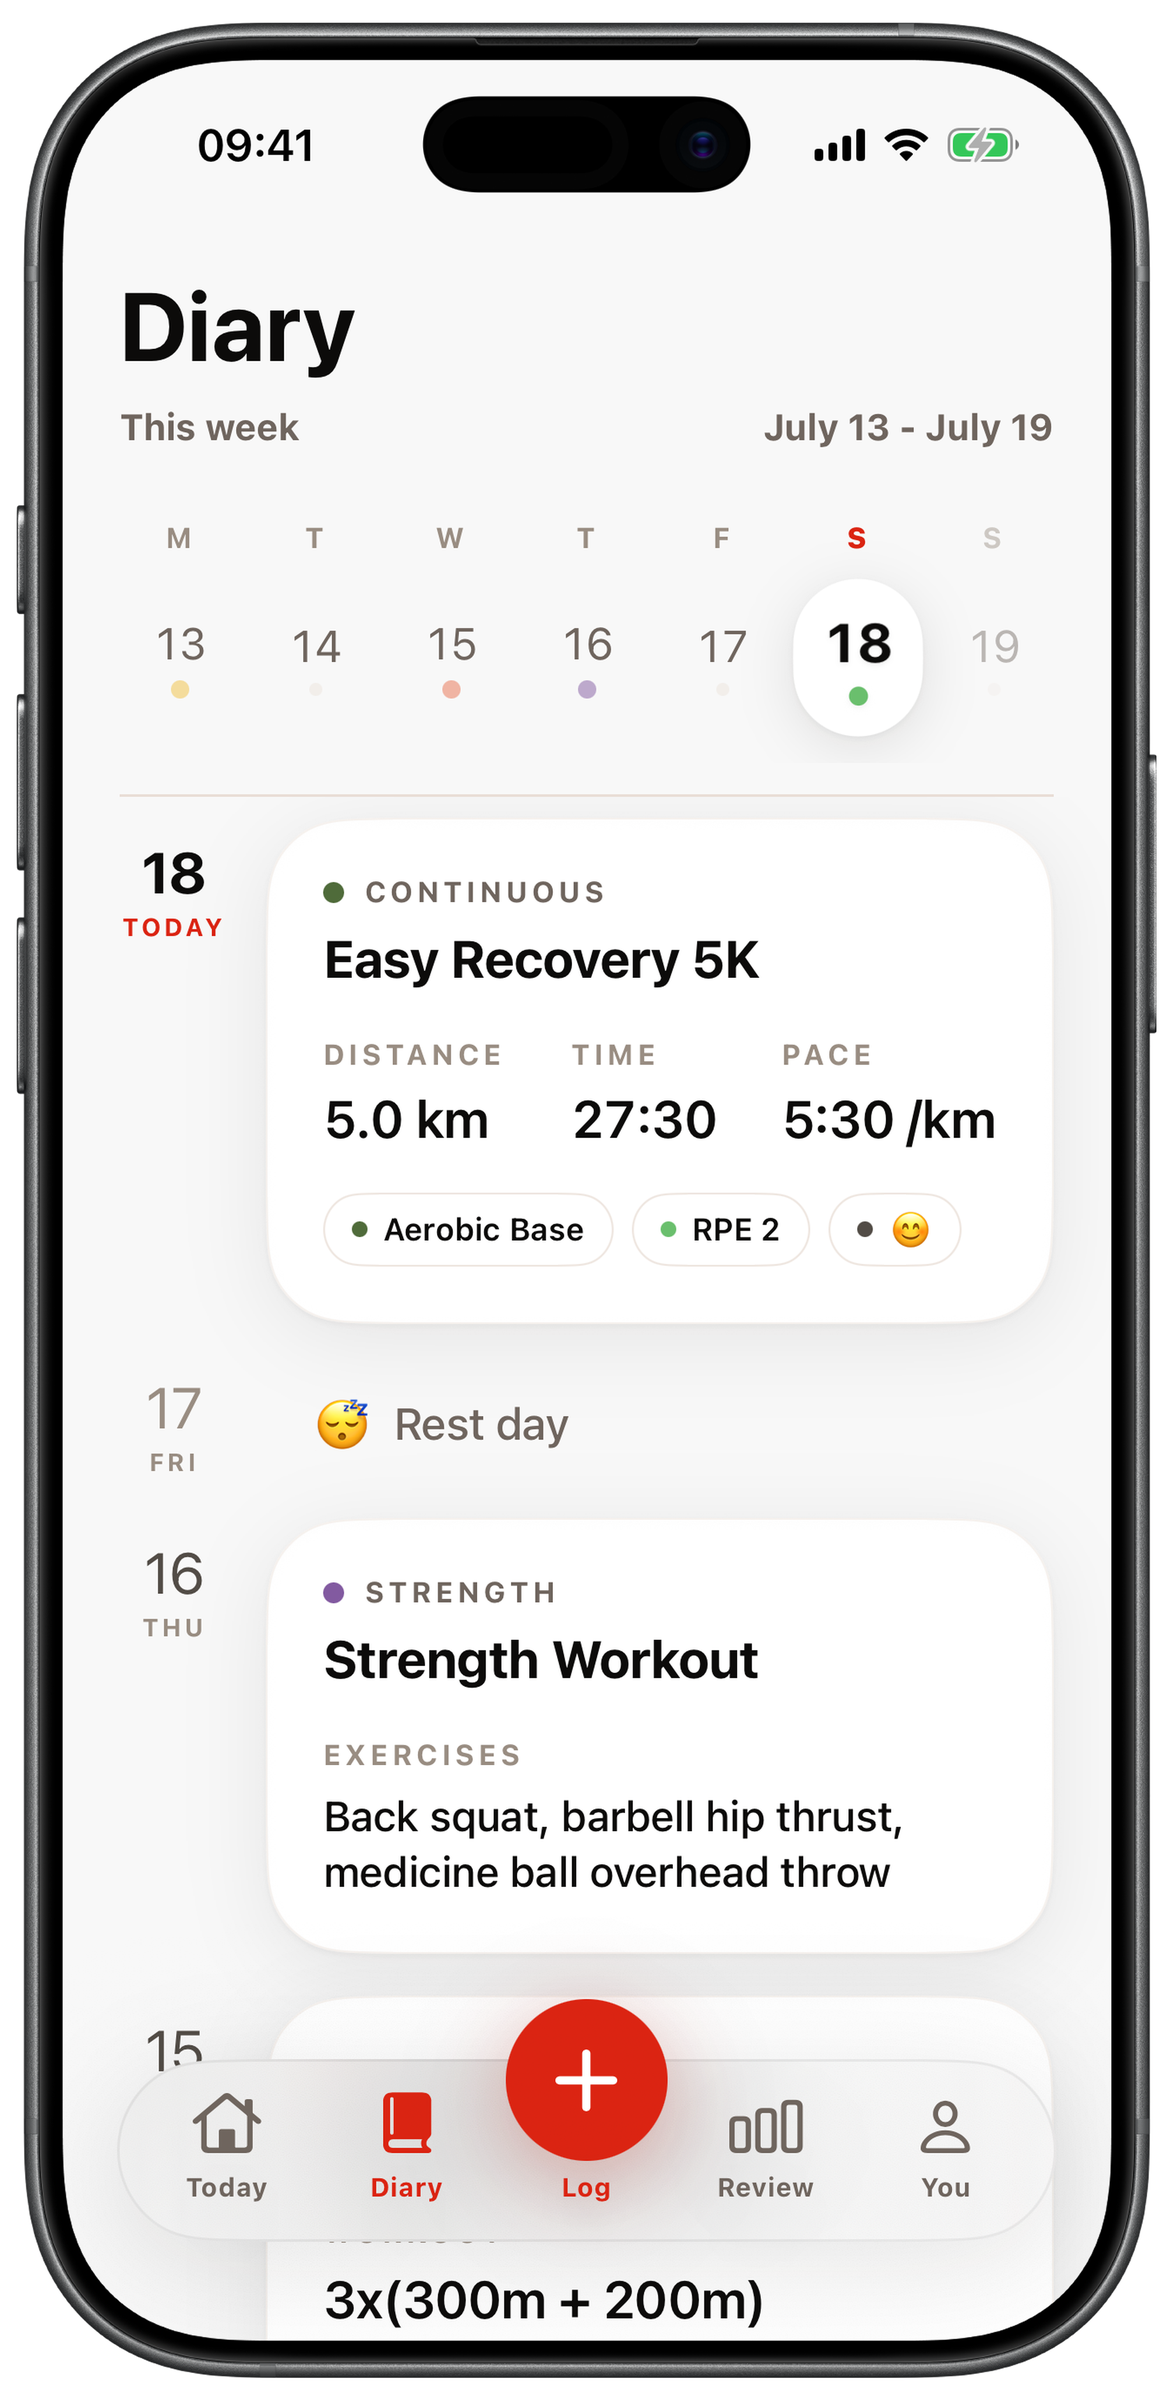
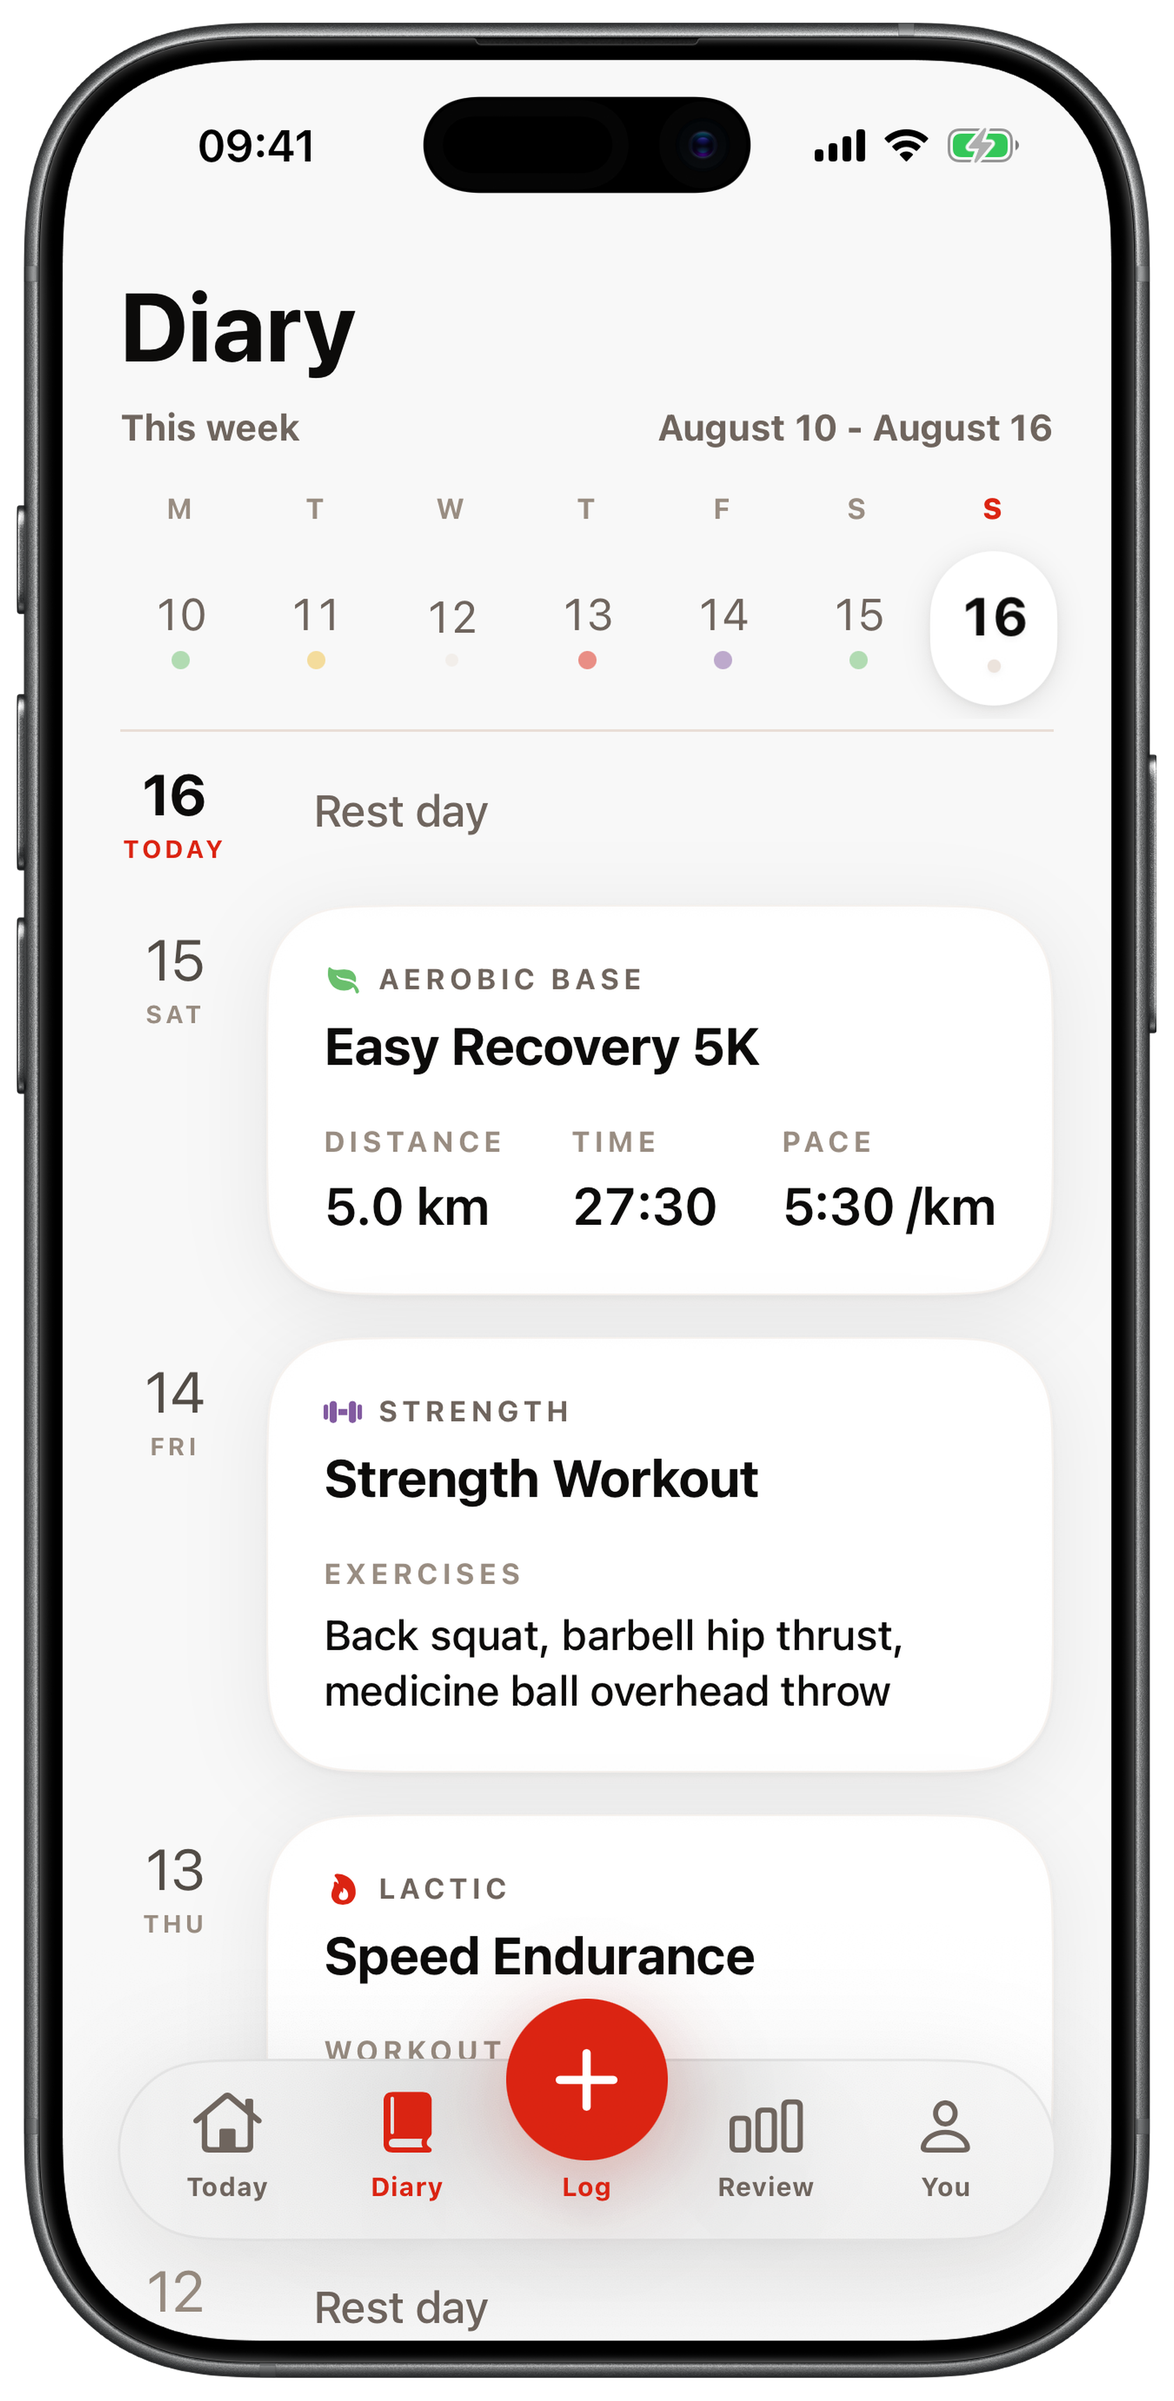
Reshoot every screenshot and add the Plan, Volume and Races sections
The screenshots were from July and the app has moved. The log tray is now "Add
a session" with a Log/Plan switch rather than "Log a session", Quick Log is
Quick Note, Today leads with "What did you do today?", and planned sessions and
the race calendar did not exist. Every image on the page is a fresh capture of
the current build.

Fix a bug in how the frame is applied, which every previous composite also had.
The screenshot was pasted as a plain rectangle behind the device frame, but the
device is not a rectangle: near the top corners its outer edge curves inward
past the screen window's straight sides, so the screenshot's square corner
extended beyond the silhouette and showed as a pale wedge just outside the
frame. Subtle at page size, obvious on an App Store poster. The screenshot is
now clipped to the frame's enclosed screen hole, found by flooding the
transparent region inward from the image border and keeping whatever survives,
then grown nine pixels so it also sits under the frame's antialiased inner edge
rather than leaving a light halo there. Verified by assertion rather than by
eye: no pixel outside the device silhouette carries any alpha, on all ten.

The frame is applied by iOS/AppStore/tools/bezel.py, which measures the screen
window out of the frame image instead of assuming an offset, so replacing the
frame with another device cannot silently paste at the old coordinates. README
carries the invocation. Do not pass today_raw.png to it: the hero layers the
[…]

diff --git a/index.html b/index.html
@@ -72,7 +72,9 @@
       "https://stridebuddy.app/assets/screenshots/today.png",
       "https://stridebuddy.app/assets/screenshots/log_structured.png",
       "https://stridebuddy.app/assets/screenshots/review.png",
-      "https://stridebuddy.app/assets/screenshots/records.png"
+      "https://stridebuddy.app/assets/screenshots/records.png",
+      "https://stridebuddy.app/assets/screenshots/race_calendar.png",
+      "https://stridebuddy.app/assets/screenshots/volume.png"
     ],
     "description": "A training diary for competitive track and field athletes. Log reps, recoveries, splits, strength work and races the way the session was written, read Daily Review feedback after each workout, and keep personal bests and rep records in view.",
     "featureList": [
@@ -80,6 +82,8 @@
       "Hurdles and steeplechase reps kept distinct from flat distances",
       "Strength, road, trail and race logging",
       "Personal bests and rep records",
+      "Planned sessions and a race calendar",
+      "Weekly volume and training mix from your own entries",
       "Daily Review feedback after each session",
       "iCloud sync across devices"
     ],
@@ -478,8 +482,15 @@
     }
     .recap-stage .phone { position: relative; width: 320px; transform: rotate(2deg); }
 
+    /* Mirrored detail section, so a run of them alternates instead of marching
+       down the same side. The copy stays first in the DOM: the stack order at
+       narrow widths is reset in the responsive block below. */
+    .recap-grid.reverse { grid-template-columns: .9fr 1fr; }
+    .recap-grid.reverse .recap-stage { order: -1; }
+    .recap-grid.reverse .recap-stage .phone { transform: rotate(-2deg); }
+
     /* ---------- Screenshots showcase ---------- */
-    .showcase { background: var(--paper-2); border-top: 1px solid var(--rule); border-bottom: 1px solid var(--rule); }
+    .showcase, .band { background: var(--paper-2); border-top: 1px solid var(--rule); border-bottom: 1px solid var(--rule); }
     .shots { display: flex; gap: 28px; justify-content: center; align-items: flex-start; flex-wrap: wrap; }
     .shot { display: flex; flex-direction: column; align-items: center; gap: 14px; max-width: 300px; }
     .shot .cap { text-align: center; }
@@ -487,6 +498,8 @@
     .shot .cap p { margin: 4px 0 0; color: var(--ink-3); font-size: 13.5px; }
 
     .recap-stage.tint-slate::before { background: var(--race-soft); }
+    .recap-stage.tint-moss::before { background: var(--moss-soft); }
+    .recap-stage.tint-purple::before { background: var(--purple-soft); }
 
     /* ---------- How it works ---------- */
     .steps { display: grid; grid-template-columns: repeat(3, 1fr); gap: 18px; counter-reset: step; }
@@ -557,7 +570,8 @@
       .hero { padding: 48px 0 24px; }
       .hero-phones { order: -1; }
       .problem-grid, .feat-grid, .steps { grid-template-columns: 1fr; }
-      .recap-grid { grid-template-columns: 1fr; gap: 20px; }
+      .recap-grid, .recap-grid.reverse { grid-template-columns: 1fr; gap: 20px; }
+      .recap-grid.reverse .recap-stage { order: 0; }
       .recap-copy h2 { max-width: 14em; }
       .recap-stage { min-height: 590px; }
       .cred-grid { grid-template-columns: 1fr; gap: 28px; }
@@ -594,8 +608,10 @@
       <nav class="nav-links" aria-label="Main navigation">
         <a class="navlink" href="#why">Why StrideBuddy</a>
         <a class="navlink" href="#features">Features</a>
+        <a class="navlink" href="#plan">Plan</a>
         <a class="navlink" href="#review">Review</a>
         <a class="navlink" href="#records">Records</a>
+        <a class="navlink" href="#races">Races</a>
         <a class="btn btn-primary nav-cta" href="https://apps.apple.com/app/apple-store/id6760190939?pt=128627634&amp;ct=website&amp;mt=8" aria-label="Download StrideBuddy on the App Store">Download</a>
       </nav>
     </div>
@@ -622,7 +638,7 @@
 
         <div class="hero-phones">
           <div class="phone-mockup">
-            <img class="phone-screenshot" src="assets/screenshots/today.png" width="1206" height="2622" alt="Today's training schedule in StrideBuddy">
+            <img class="phone-screenshot" src="assets/screenshots/today.png" width="1206" height="2622" alt="StrideBuddy's Today screen, with the prompt to log a session and this week's training">
             <img class="phone-bezel" src="assets/iphone-17-black-bezel.png" width="2015" height="4120" alt="" aria-hidden="true">
           </div>
         </div>
@@ -683,7 +699,7 @@
               <svg viewBox="0 0 24 24" fill="none" stroke="currentColor" stroke-width="2" stroke-linecap="round" stroke-linejoin="round"><path d="M3 12h4l2-7 4 14 2-7h6"/></svg>
             </div>
             <h3>Five ways to start a log</h3>
-            <p>Choose continuous, structured, strength, or race logging. For anything that doesn’t fit those four, use the free-text Quick Log. They all open from the same Log button.</p>
+            <p>Choose continuous, structured, strength, or race logging. For anything that doesn’t fit those four, use the free-text Quick Note. They all open from the same Log button.</p>
           </article>
 
           <article class="fcard t-event">
@@ -733,7 +749,7 @@
 
         <div class="shots">
           <div class="shot">
-            <img class="phone" src="assets/screenshots/central_log.png" width="1800" height="3680" alt="The five session types in StrideBuddy's Log menu" loading="lazy">
+            <img class="phone" src="assets/screenshots/central_log.png" width="1800" height="3680" alt="StrideBuddy's Add a session tray, showing the five session types" loading="lazy">
             <div class="cap">
               <h3>One place to start</h3>
               <p>Choose continuous, structured, strength, race, or a quick note from one menu.</p>
@@ -759,6 +775,30 @@
       </div>
     </section>
 
+    <!-- ============ PLAN ============ -->
+    <section id="plan" class="section recap">
+      <div class="wrap recap-grid reverse">
+        <div class="recap-copy">
+          <p class="eyebrow">Plan</p>
+          <h2>Plan the session now, log the result later.</h2>
+          <p>
+            The tray that logs a session will also plan one. Switch it to Plan, choose a day
+            ahead, and pick the workout type you have in mind.
+          </p>
+          <div class="recap-points" aria-label="What you can plan in StrideBuddy">
+            <div class="recap-point"><strong>Log or plan</strong><span>Log covers today and any earlier day. Plan covers tomorrow onwards, as far as a year out.</span></div>
+            <div class="recap-point"><strong>The same session types</strong><span>Continuous, structured, strength, race, or a quick note.</span></div>
+            <div class="recap-point"><strong>Waiting on Today</strong><span>A planned session sits on Today and in your Diary until you log the result against it.</span></div>
+            <div class="recap-point"><strong>Races go to the calendar</strong><span>Plan a race and it lands in your race calendar instead.</span></div>
+          </div>
+        </div>
+
+        <div class="recap-stage tint-moss">
+          <img class="phone" src="assets/screenshots/central_plan.png" width="1800" height="3680" alt="StrideBuddy's Add a session tray switched to Plan, scheduling a workout for tomorrow" loading="lazy">
+        </div>
+      </div>
+    </section>
+
     <!-- ============ REVIEW (Daily Review) ============ -->
     <section id="review" class="section recap">
       <div class="wrap recap-grid">
@@ -771,7 +811,7 @@
             reducing the workout to a score.
           </p>
           <div class="recap-points" aria-label="What Daily Review includes">
-            <div class="recap-point"><strong>Ready when you save</strong><span>Your review appears after each logged workout.</span></div>
+            <div class="recap-point"><strong>Ready when you save</strong><span>Saving a workout updates your review, up to three times a day.</span></div>
             <div class="recap-point"><strong>About this workout</strong><span>It can discuss the stimulus, execution, effort, and how the session felt.</span></div>
             <div class="recap-point"><strong>Connected to your week</strong><span>A compact recent history adds context without sending your entire diary.</span></div>
             <div class="recap-point"><strong>Feedback, not a grade</strong><span>You get useful takeaways and things to watch, not a ranking.</span></div>
@@ -780,6 +820,31 @@
 
         <div class="recap-stage">
           <img class="phone" src="assets/screenshots/review.png" width="1800" height="3680" alt="Daily Review feedback for a workout in StrideBuddy" loading="lazy">
+        </div>
+      </div>
+    </section>
+
+    <!-- ============ VOLUME ============ -->
+    <section id="volume" class="section recap band">
+      <div class="wrap recap-grid reverse">
+        <div class="recap-copy">
+          <p class="eyebrow">Volume</p>
+          <h2>How much you trained, counted from the diary.</h2>
+          <p>
+            Below the Daily Review, the same tab adds up what you logged: a bar for each week,
+            the sessions behind any week you open, and the mix of work across the month. None
+            of it is estimated.
+          </p>
+          <div class="recap-points" aria-label="What the Review tab counts">
+            <div class="recap-point"><strong>Week by week</strong><span>Four weeks on screen at a time, and you can page back through earlier ones.</span></div>
+            <div class="recap-point"><strong>Open a week</strong><span>Tap a bar to see its days and the sessions inside them.</span></div>
+            <div class="recap-point"><strong>Training mix</strong><span>Which kinds of session your month was made of.</span></div>
+            <div class="recap-point"><strong>Counted, not scored</strong><span>No readiness score and no training load index. These are your own entries, added up.</span></div>
+          </div>
+        </div>
+
+        <div class="recap-stage tint-purple">
+          <img class="phone" src="assets/screenshots/volume.png" width="1800" height="3680" alt="Weekly volume chart and one week's sessions in StrideBuddy's Review tab" loading="lazy">
         </div>
       </div>
     </section>
@@ -805,6 +870,31 @@
 
         <div class="recap-stage tint-slate">
           <img class="phone" src="assets/screenshots/records.png" width="1800" height="3680" alt="Signature speed curve and personal records in StrideBuddy" loading="lazy">
+        </div>
+      </div>
+    </section>
+
+    <!-- ============ RACES ============ -->
+    <section id="races" class="section recap">
+      <div class="wrap recap-grid reverse">
+        <div class="recap-copy">
+          <p class="eyebrow">Races</p>
+          <h2>The races you have coming, and the ones you have run.</h2>
+          <p>
+            The race calendar keeps upcoming meets and past results on one page. A race you
+            entered weeks ahead and a race you logged straight into the diary both appear
+            here, so the list stays complete.
+          </p>
+          <div class="recap-points" aria-label="What the race calendar holds">
+            <div class="recap-point"><strong>What’s next</strong><span>Each upcoming race with its distance, venue, and the days left.</span></div>
+            <div class="recap-point"><strong>A, B, or C</strong><span>Full taper, short taper, or train through. You say which when you add the race.</span></div>
+            <div class="recap-point"><strong>Season or all time</strong><span>Read one season of results, or your whole history.</span></div>
+            <div class="recap-point"><strong>Personal bests marked</strong><span>A PB is flagged on the race where you set it.</span></div>
+          </div>
+        </div>
+
+        <div class="recap-stage">
+          <img class="phone" src="assets/screenshots/race_calendar.png" width="1800" height="3680" alt="Upcoming and past races in StrideBuddy's race calendar" loading="lazy">
         </div>
       </div>
     </section>
@@ -837,7 +927,7 @@
     </section>
 
     <!-- ============ CREDIBILITY ============ -->
-    <section class="section cred" style="background:var(--paper-2); border-top:1px solid var(--rule); border-bottom:1px solid var(--rule);">
+    <section class="section cred band">
       <div class="wrap cred-grid">
         <div>
           <p class="eyebrow">For track athletes</p>
@@ -908,8 +998,10 @@
         <nav class="footer-links" aria-label="Footer navigation">
           <a href="#why">Why StrideBuddy</a>
           <a href="#features">Features</a>
+          <a href="#plan">Plan</a>
           <a href="#review">Review</a>
           <a href="#records">Records</a>
+          <a href="#races">Races</a>
           <a href="support">Support</a>
           <a href="terms">Terms</a>
           <a href="privacy">Privacy</a>

diff --git a/README.md b/README.md
@@ -272,14 +272,44 @@ The page uses real app screenshots exported with a transparent device frame:
 | File | Screen | Used in |
 | --- | --- | --- |
 | `assets/screenshots/today.png` | Today | Hero (layered inside `assets/iphone-17-black-bezel.png`) |
-| `assets/screenshots/central_log.png` | Central Log tray | Logging section |
+| `assets/screenshots/central_log.png` | Add a session tray, Log face | Logging section |
 | `assets/screenshots/log_strength.png` | Strength logging chip picker | Logging section |
 | `assets/screenshots/log_structured.png` | Structured track-session logging | Logging section |
+| `assets/screenshots/central_plan.png` | Add a session tray, Plan face | Plan section |
 | `assets/screenshots/review.png` | Review tab / Daily Review feedback | Review section |
+| `assets/screenshots/volume.png` | Review tab / weekly volume and training mix | Volume section |
 | `assets/screenshots/records.png` | Records / speed curve | Records section |
+| `assets/screenshots/race_calendar.png` | Race calendar | Races section |
+| `assets/screenshots/diary.png` | Diary week view | Unused on the page; kept in sync for the App Store posters |
 
-Current exports are **1800×3680** PNGs. Keep the same aspect ratio and transparent
-device treatment when replacing them.
+Every file above is the composite: the raw screen scaled into the device frame,
+**2015×4120** with the area outside the phone transparent. `today.png` is the one
+exception. The hero layers the frame over it in CSS, so that file is the bare
+**1206×2622** screen. The `<img>` tags declare 1800×3680, which is the same
+aspect at a smaller nominal size and only sets the intrinsic ratio.
+
+Each screen also keeps its unframed capture beside it as `<name>_raw.png`. Those
+are the inputs, not page assets: nothing links to them, and they exist so a frame
+change does not need the screenshots retaken. Previous versions are archived
+under `assets/screenshots/old/`, which is gitignored.
+
+The frame is applied by `../iOS/AppStore/tools/bezel.py`, which measures the
+screen window out of the frame image rather than assuming an offset:
+
+```sh
+~/.cache/stridebuddy-social/venv/bin/python ../iOS/AppStore/tools/bezel.py \
+  assets/screenshots/central_log_raw.png assets/screenshots/central_plan_raw.png \
+  assets/screenshots/diary_raw.png assets/screenshots/log_strength_raw.png \
+  assets/screenshots/log_structured_raw.png assets/screenshots/race_calendar_raw.png \
+  assets/screenshots/records_raw.png assets/screenshots/review_raw.png \
+  assets/screenshots/volume_raw.png --out assets/screenshots --strip-raw
+```
+
+**Do not pass `today_raw.png` to it.** That would write a framed `today.png` over
+the bare screen the hero needs, and the result is a phone drawn inside a phone.
+`today.png` is a plain copy of `today_raw.png`.
+
+Keep the same aspect ratio and transparent device treatment when replacing them.
 
 ## Contact
 
